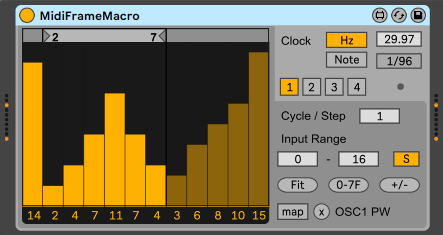
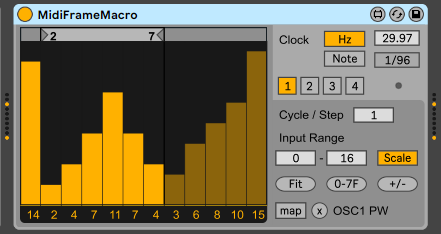
update thumbnail and add description for FrameMacro

diff --git a/m4l/index.html b/m4l/index.html
@@ -29,7 +29,7 @@
       Even if you don't own MAX or Ableton Live, you can download the demo version of Live Suite <a href="https://www.ableton.com/trial/">here</a>.<br/>
       It's free for 90 days with all functions including Max for Live!! (as of April 2020)<br/>
       Checked operational properly only for Ableton Live Suite 9.7.7 / 10.1.14 / 11.1.1, MAX 6.1.7 / 7.3.5 / 8.3.0 on Windows 10 (21H2) and MacOS 12.5 with Apple Silicon.
-      Please <a href="https://maxforlive.com/profile/user/h1data">post a comment</a> or <a href="https://twitter.com/h1data">notify the author</p>
+      Please <a href="https://maxforlive.com/profile/user/h1data">post a comment</a> or <a href="https://twitter.com/h1data">notify the author</a></p>
     </header>
     <section>
       <h3>For M4L developers</h3>
@@ -398,6 +398,7 @@
             <li>The Scale Button is now labeled "Scale" instead of "S"</li>
             <li>Changed the comment of version info in the patch this time.</li>
           </ul>
+          In this update, Max console displays a version warning message in Max 8 below but works properly in Live 9.7.7 / Max 6.1.7 or later.
         </div>
         <div class="history">
           Changes in version 1.3.2 (January 10, 2022)
@@ -498,6 +499,7 @@
             <li>Fixed issues when the device does not display values of sliders properly in Live 10 / Max 8 or later.</li>
             <li>The Scale Button is now labeled "Scale" instead of "S"</li>
           </ul>
+          In this update, Max console displays a version warning message in Max 8 below but works properly in Live 9.1.7 / Max 6.2.2 or later.
         </div>
         <div class="history">
           Changes in version 1.3.2 (January 10, 2022)

diff --git a/m4l/ja/index.html b/m4l/ja/index.html
@@ -388,6 +388,7 @@
             <li>Scaleボタンの表記を「S」から「Scale」に変更しました。</li>
             <li>今回はパッチ内のバージョン情報の更新を忘れませんでした。</li>
           </ul>
+          この更新によりMax 8 より前の環境ではMaxコンソールにバージョン警告が表示されますが、Live 9.7.7 / Max 6.1.7 以降であれば動作に問題はありません。
         </div>
         <div class="history">
           Version 1.3.2 の変更点 (2022/1/10)
@@ -487,6 +488,7 @@
             <li>Live 10 / Max 8以降でスライダー下の数値が正しく表示されない場合がある問題を修正しました。</li>
             <li>Scaleボタンの表記を「S」から「Scale」に変更しました。</li>
           </ul>
+          この更新によりMax 8 より前の環境ではMaxコンソールにバージョン警告が表示されますが、Live 9.7.7 / Max 6.1.7 以降であれば動作に問題はありません。
         </div>
         <div class="history">
           Version 1.3.2 の変更点 (2022/1/10)
